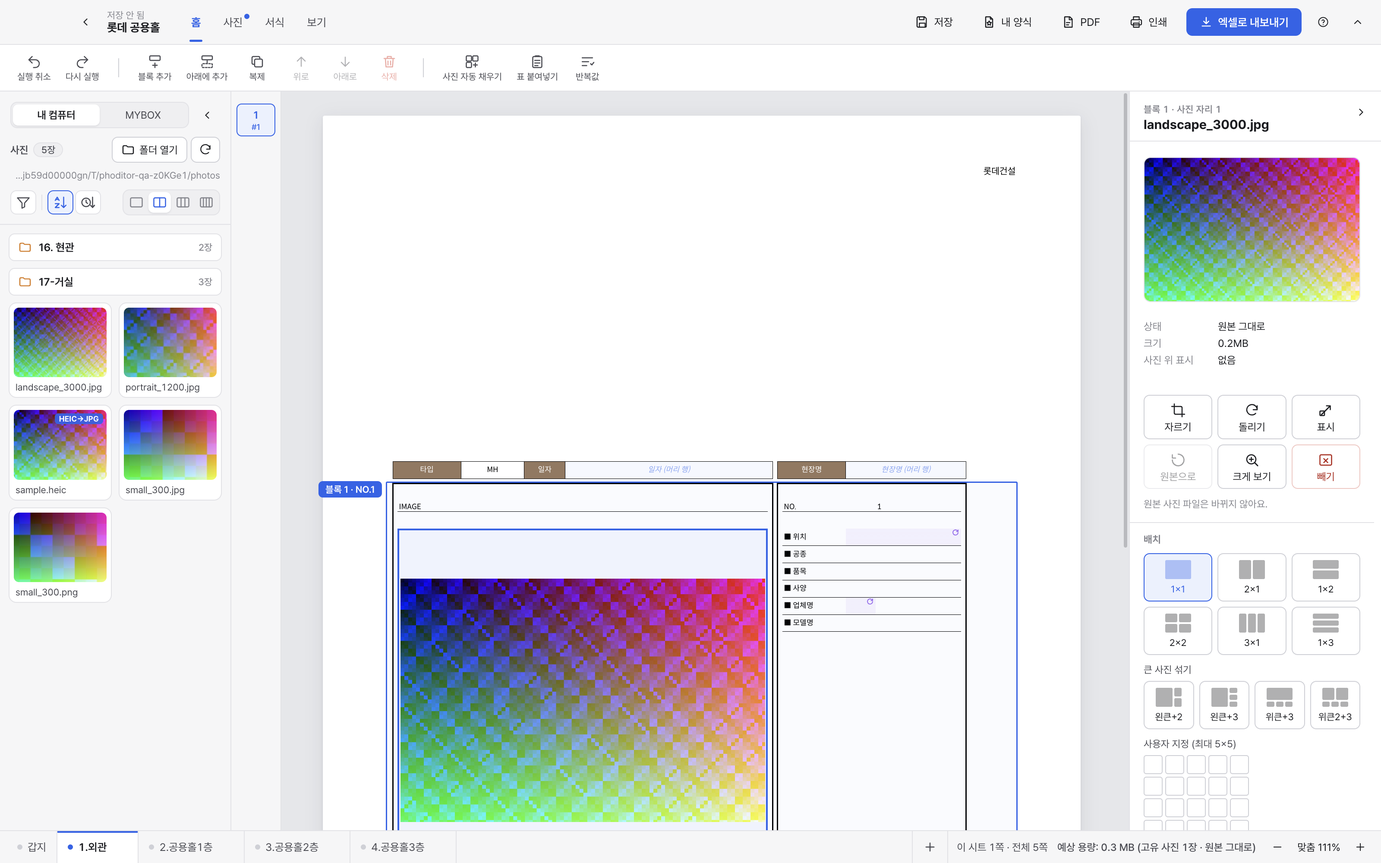
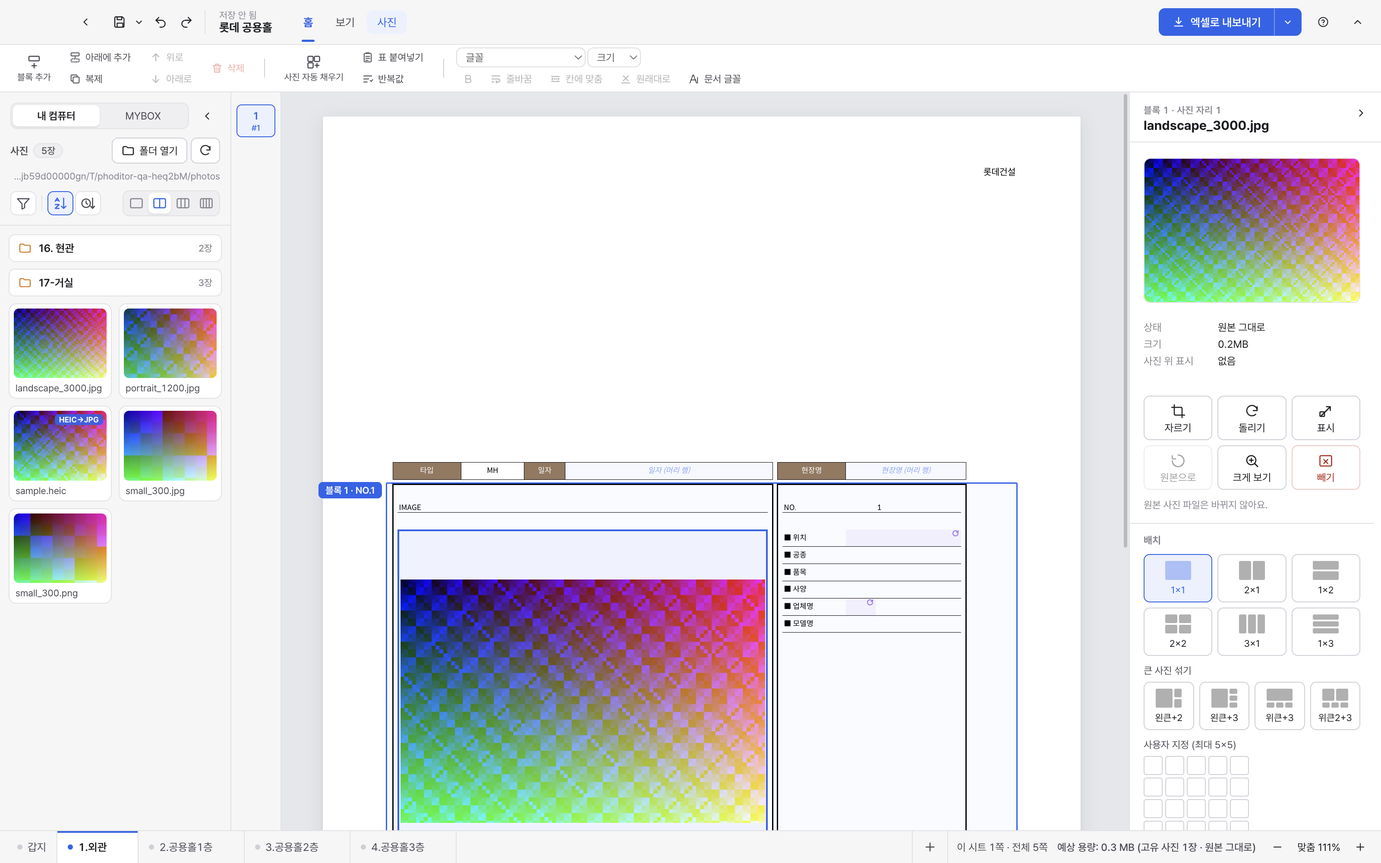
9.3 R5 Office식 리본·상단 바, 시작 화면 빈자리 정리
- 상단 바 왼쪽 빠른 실행: [저장 ▾](다른 이름으로·내 양식) · 실행 취소 · 다시 실행
- 오른쪽 [엑셀로 내보내기 | ▾] 분할 단추(PDF ⇧⌘E · 인쇄 ⌘P), R4 PDF 배지 제거
- 탭: 홈 · 보기 + 상황 탭 [사진](사진 자리를 골랐을 때만), [서식] 탭은 없애고 글꼴 묶음을 [홈]으로
- [홈] 리본 위계: 큰 단추(블록 추가·사진 자동 채우기) + 작은 단추 2단 쌓기, 높이 54px 유지
- 칸을 안 골랐을 때 글꼴·크기 상자에 "글꼴"/"크기" 표시
- 시작 화면: 최근 작업이 적어 아래가 남으면 양식 카드를 여러 줄로 모두 보여 줌(안 들어가면 한 줄 그대로)
- 테스트: 06·09·10·11·12 위치 확인 갱신·추가(지운 항목 없음), 재평가 캡처 4장 갱신

diff --git a/index.html b/index.html
@@ -345,10 +345,10 @@
     @media (max-width: 1420px) {
       .tb-btn { font-size: 0; min-width: 36px; padding: 7px 8px; gap: 0; }
       .tb-btn svg.i { width: 18px; height: 18px; }
-      #saveBtn, #saveMyTplTopBtn, #pdfBtn, #printBtn { font-size: 0; gap: 0; }
-      #pdfBtn .pdf-badge { display: block; } /* 글자가 숨는 좁은 창에서만: 내 양식과 구분 */
       .tb-sep { margin: 0 2px; }
       .rb-panel .tb-sep { margin: 0 6px; }
+      .rb-panel .tb-btn.sm { font-size: 0; gap: 0; padding: 0 6px; }
+      .rb-font2 #fmtFontSel { width: 120px; }
     }
     .icon-btn { padding: 6px 7px; }
     .photo-tools { display: flex; gap: 6px; align-items: center; }
@@ -429,6 +429,34 @@
     .rb-font select { height: 30px; font-size: 12.5px; }
     #fmtFontSel { width: 170px; } #fmtSizeSel { width: 72px; margin-right: 4px; }
     .rb-panel .tb-sep { margin: 0 10px; }
+    /* [9.3 R5] Office식 리본·상단 바 */
+    .qat { display: flex; align-items: center; gap: 0; margin-right: 6px; padding-right: 6px; border-right: 1px solid var(--line); }
+    .qat-btn { padding: 5px 6px; }
+    .qat-btn svg.i { width: 16px; height: 16px; }
+    .qat-caret { padding: 5px 2px; margin-left: -3px; }
+    .qat-caret svg.i, .split-caret svg.i { width: 14px; height: 14px; }
+    .split-btn { display: inline-flex; align-items: stretch; flex: none; }
+    .split-btn #exportBtn { border-top-right-radius: 0; border-bottom-right-radius: 0; }
+    .split-btn .split-caret { border-top-left-radius: 0; border-bottom-left-radius: 0; border-left: 1px solid rgba(255,255,255,.35); padding: 0 8px; min-width: 0; }
+    .drop-menu { position: fixed; z-index: 3000; min-width: 220px; background: #fff; border: 1px solid var(--line); border-radius: 10px; box-shadow: var(--shadow-pop); padding: 5px; display: flex; flex-direction: column; -webkit-app-region: no-drag; }
+    .drop-menu[hidden] { display: none; }
+    .drop-item { display: flex; align-items: center; gap: 10px; border: none; background: transparent; padding: 7px 10px; border-radius: 7px; font-size: 13px; color: var(--ink); text-align: left; justify-content: flex-start; }
+    .drop-item:hover, .drop-item:focus-visible { background: var(--bg-hover, rgba(0,0,0,.05)); }
+    .drop-item svg.i { width: 16px; height: 16px; color: var(--ink-2); flex: none; }
+    .drop-item span { flex: 1; }
+    .drop-item kbd { font-size: 11px; color: var(--ink-muted); background: none; border: none; font-family: inherit; }
+    .rb-stack { display: flex; flex-direction: column; justify-content: center; gap: 2px; flex: none; }
+    .rb-panel .tb-btn.sm { flex-direction: row; justify-content: flex-start; gap: 5px; min-width: 0; height: 23px; padding: 0 8px; font-size: 11.5px; }
+    .rb-panel .tb-btn.sm svg.i { width: 14px; height: 14px; }
+    .rb-panel .tb-btn.sm.ico { padding: 0 6px; }
+    .rb-font2 { display: flex; flex-direction: column; justify-content: center; gap: 2px; flex: none; }
+    .rb-font2 .rb-row { display: flex; align-items: center; gap: 2px; }
+    .rb-font2 select { height: 23px; padding: 0 6px; font-size: 12px; }
+    .rb-font2 #fmtFontSel { width: 150px; }
+    .rb-font2 #fmtSizeSel { width: 62px; }
+    .ribbon-tabs button.ctx-tab { color: var(--accent); background: var(--accent-soft); }
+    .ribbon-tabs button.ctx-tab::before { display: none !important; }
+    .ribbon-tabs button[hidden] { display: none; }
     .rb-hint { font-size: 11.5px; color: var(--ink-muted); margin-left: 10px; white-space: nowrap; }
     .rb-collapse, .help-btn { flex: none; }
     .rb-collapse svg { transition: transform .15s; }
@@ -516,7 +544,8 @@
     .tpl-head .type-btn { padding: 6px 14px; font-size: 13px; }
     .tpl-strip-wrap { position: relative; margin-bottom: 26px; }
     .tpl-strip { display: flex; gap: 14px; overflow-x: auto; scroll-snap-type: x proximity; padding: 4px 2px 10px; }
-    .tpl-strip > .company-card { flex: 0 0 212px; scroll-snap-align: start; }
+    .tpl-strip.as-grid { flex-wrap: wrap; overflow-x: visible; scroll-snap-type: none; }
+    .tpl-strip > .company-card { flex: 0 0 var(--strip-card-w, 212px); scroll-snap-align: start; }
     .strip-scroll { position: absolute; top: 96px; z-index: 3; width: 34px; height: 54px; padding: 0; justify-content: center; font-size: 24px; border-radius: 10px; background: rgba(255,255,255,.95); box-shadow: var(--shadow-pop); }
     .strip-scroll.prev { left: -14px; } .strip-scroll.next { right: -14px; }
     .strip-scroll[hidden] { display: none; }
@@ -574,7 +603,7 @@
     .company-grid { display: grid; gap: 14px; grid-template-columns: repeat(auto-fill, minmax(220px, 1fr)); }
     .company-card { display: flex; flex-direction: column; align-items: stretch; justify-content: flex-start; gap: 0; padding: 0; text-align: left; overflow: hidden; border: 1px solid var(--line); border-radius: var(--radius-lg); background: #fff; box-shadow: 0 1px 2px rgba(16,24,40,.04); transition: border-color .15s, box-shadow .15s, transform .15s; min-height: 0; cursor: pointer; outline: none; }
     .company-card:focus-visible { border-color: var(--accent); box-shadow: 0 0 0 3px var(--accent-ring); }
-    .company-card .card-art { display: grid; place-items: center; background: var(--chrome-2); border-bottom: 1px solid var(--line); position: relative; --art-h: 236px; height: var(--art-h); padding: 10px 0 24px; box-sizing: border-box; overflow: hidden; }
+    .company-card .card-art { display: grid; place-items: center; background: var(--chrome-2); border-bottom: 1px solid var(--line); position: relative; --art-h: var(--strip-art-h, 236px); height: var(--art-h); padding: 10px 0 24px; box-sizing: border-box; overflow: hidden; }
     .company-card .card-art img.cover-thumb { height: auto; width: auto; max-height: calc(var(--art-h) - 34px); max-width: calc(100% - 56px); object-fit: contain; border-radius: 2px; box-shadow: 0 1px 4px rgba(16,24,40,.22); background: #fff; }
     .company-card .card-body { display: flex; align-items: center; gap: 10px; padding: 8px 12px 10px; }
     .company-card .card-text { display: flex; flex-direction: column; gap: 1px; min-width: 0; flex: 1; }
@@ -846,6 +875,10 @@
       <button id="backToCatalogBtn" class="ghost icon-btn" data-tip="양식 목록으로">
         <svg class="i" viewBox="0 0 24 24"><path d="M15 18l-6-6 6-6"/></svg>
       </button>
+      <div class="qat" role="toolbar" aria-label="빠른 실행">
+        <button id="saveBtn" class="ghost icon-btn qat-btn" data-tip="작업 저장 (⌘S)" aria-label="저장"><svg class="i" viewBox="0 0 24 24"><path d="M5 3h11l3 3v13a2 2 0 01-2 2H5a2 2 0 01-2-2V5a2 2 0 012-2z"/><path d="M7 3v5h8V3M7 21v-7h10v7"/></svg></button><button id="saveMenuBtn" class="ghost icon-btn qat-caret" data-tip="저장 메뉴" aria-label="저장 메뉴" aria-haspopup="menu" aria-expanded="false"><svg class="i" viewBox="0 0 24 24" aria-hidden="true"><path d="M7 10l5 5 5-5"/></svg></button>
+        <button id="undoBtn" class="ghost icon-btn qat-btn" data-tip="실행 취소 (⌘Z)" aria-label="실행 취소"><svg class="i" viewBox="0 0 24 24"><path d="M9 14L4 9l5-5"/><path d="M4 9h10a6 6 0 010 12h-3"/></svg></button><button id="redoBtn" class="ghost icon-btn qat-btn" data-tip="다시 실행 (⇧⌘Z)" aria-label="다시 실행"><svg class="i" viewBox="0 0 24 24"><path d="M15 14l5-5-5-5"/><path d="M20 9H10a6 6 0 000 12h3"/></svg></button>
+      </div>
       <div class="doc-head">
         <div class="doc-titles">
           <span class="doc-kicker" id="editorKicker">사진첩</span>
@@ -854,39 +887,46 @@
       </div>
       <nav id="ribbonTabs" class="ribbon-tabs" role="tablist">
         <button data-tab="home" class="on" role="tab">홈</button>
-        <button data-tab="photo" role="tab">사진</button>
-        <button data-tab="format" role="tab">서식</button>
         <button data-tab="view" role="tab">보기</button>
+        <button data-tab="photo" role="tab" class="ctx-tab" hidden>사진</button>
       </nav>
       <div class="tb-spacer"></div>
       <input id="siteNameInput" type="text" placeholder="현장명" style="display:none; width: 200px;" />
-      <button id="saveBtn" class="ghost file-btn" data-tip="작업 저장 (⌘S)"><svg class="i" viewBox="0 0 24 24"><path d="M5 3h11l3 3v13a2 2 0 01-2 2H5a2 2 0 01-2-2V5a2 2 0 012-2z"/><path d="M7 3v5h8V3M7 21v-7h10v7"/></svg><span>저장</span></button>
-      <button id="saveMyTplTopBtn" class="ghost file-btn" data-tip="지금 구성을 내 양식으로 저장(사진 빼고)"><svg class="i" viewBox="0 0 24 24"><path d="M14 3H6v18h12V7z"/><path d="M14 3v4h4"/><path d="M12 10.2l1.2 2.4 2.6.4-1.9 1.8.5 2.6-2.4-1.2-2.4 1.2.5-2.6-1.9-1.8 2.6-.4z"/></svg><span>내 양식</span></button>
-      <button id="pdfBtn" class="ghost file-btn" data-tip="PDF로 내보내기 (⇧⌘E)"><span class="pdf-ico"><svg class="i" viewBox="0 0 24 24"><path d="M6 3h9l4 4v14H6z"/><path d="M14 3v5h5M9 13h6M9 17h4"/></svg><b class="pdf-badge" aria-hidden="true">PDF</b></span><span>PDF</span></button>
-      <button id="printBtn" class="ghost file-btn" data-tip="인쇄 (⌘P) — Excel로 PDF를 만들어 바로 열어요"><svg class="i" viewBox="0 0 24 24"><path d="M7 8V3h10v5"/><rect x="3" y="8" width="18" height="9" rx="2"/><path d="M7 14h10v7H7z"/><path d="M17 11.5h.01"/></svg><span>인쇄</span></button>
-      <button id="exportBtn" class="primary"><svg class="i" viewBox="0 0 24 24"><path d="M12 4v11M7.5 10.5L12 15l4.5-4.5"/><path d="M5 19h14"/></svg>엑셀로 내보내기</button>
+      
+      
+      
+      
+      <div class="split-btn" id="exportSplit"><button id="exportBtn" class="primary"><svg class="i" viewBox="0 0 24 24"><path d="M12 4v11M7.5 10.5L12 15l4.5-4.5"/><path d="M5 19h14"/></svg>엑셀로 내보내기</button><button id="exportMenuBtn" class="primary split-caret" data-tip="PDF·인쇄" aria-label="다른 형식으로 내보내기" aria-haspopup="menu" aria-expanded="false"><svg class="i" viewBox="0 0 24 24" aria-hidden="true"><path d="M7 10l5 5 5-5"/></svg></button></div>
       <button id="helpBtn" class="ghost icon-btn help-btn" data-tip="도움말" aria-label="도움말"><svg class="i" viewBox="0 0 24 24" aria-hidden="true"><circle cx="12" cy="12" r="9"/><path d="M9.6 9.3a2.5 2.5 0 014.8.9c0 1.7-2.4 2.2-2.4 3.6"/><path d="M12 17.2h.01"/></svg></button>
       <button id="ribbonCollapseBtn" class="ghost icon-btn rb-collapse" data-tip="리본 접기" aria-expanded="true" aria-controls="ribbon"><svg class="i" viewBox="0 0 24 24"><path d="M6 15l6-6 6 6"/></svg></button>
       <span id="templateStatusBadge" hidden></span>
       <span id="blankStatusBadge" hidden></span>
     </header>
+    <div id="saveMenu" class="drop-menu" role="menu" hidden>
+      <button id="saveAsBtn" class="drop-item" role="menuitem"><svg class="i" viewBox="0 0 24 24"><path d="M5 3h11l3 3v13a2 2 0 01-2 2H5a2 2 0 01-2-2V5a2 2 0 012-2z"/><path d="M7 3v5h8V3"/><path d="M12 12v6M9 15h6"/></svg><span>다른 이름으로 저장…</span><kbd>⇧⌘S</kbd></button>
+      <button id="saveMyTplTopBtn" class="drop-item" role="menuitem" data-tip="지금 구성을 내 양식으로 저장(사진 빼고)"><svg class="i" viewBox="0 0 24 24"><path d="M14 3H6v18h12V7z"/><path d="M14 3v4h4"/><path d="M12 10.2l1.2 2.4 2.6.4-1.9 1.8.5 2.6-2.4-1.2-2.4 1.2.5-2.6-1.9-1.8 2.6-.4z"/></svg><span>내 양식으로 저장…</span></button>
+    </div>
+    <div id="exportMenu" class="drop-menu" role="menu" hidden>
+      <button id="pdfBtn" class="drop-item" role="menuitem" data-tip="PDF로 내보내기 (⇧⌘E)"><svg class="i" viewBox="0 0 24 24"><path d="M6 3h9l4 4v14H6z"/><path d="M14 3v5h5M9 13h6M9 17h4"/></svg><span>PDF로 내보내기…</span><kbd>⇧⌘E</kbd></button>
+      <button id="printBtn" class="drop-item" role="menuitem" data-tip="인쇄 (⌘P) — Excel로 PDF를 만들어 바로 열어요"><svg class="i" viewBox="0 0 24 24"><path d="M7 8V3h10v5"/><rect x="3" y="8" width="18" height="9" rx="2"/><path d="M7 14h10v7H7z"/><path d="M17 11.5h.01"/></svg><span>인쇄…</span><kbd>⌘P</kbd></button>
+    </div>
     <div id="ribbon" class="ribbon">
       <div class="rb-panel on" data-tab="home">
-        <div class="rb-group"><button id="undoBtn" class="tb-btn" data-tip="실행 취소 (⌘Z)"><svg class="i" viewBox="0 0 24 24"><path d="M9 14L4 9l5-5"/><path d="M4 9h10a6 6 0 010 12h-3"/></svg><span>실행 취소</span></button><button id="redoBtn" class="tb-btn" data-tip="다시 실행 (⇧⌘Z)"><svg class="i" viewBox="0 0 24 24"><path d="M15 14l5-5-5-5"/><path d="M20 9H10a6 6 0 000 12h3"/></svg><span>다시 실행</span></button></div>
+        <div class="rb-group"><button id="addBlockEndBtn" class="tb-btn" data-tip="시트 맨 끝에 블록 추가"><svg class="i" viewBox="0 0 24 24"><rect x="4" y="3" width="16" height="7" rx="1.5"/><path d="M12 14v7M8.5 17.5h7"/></svg><span>블록 추가</span></button></div>
+        <div class="rb-stack"><button id="addBlockBelowBtn" class="tb-btn sm" data-tip="선택한 블록 아래에 추가 (⌘↵)"><svg class="i" viewBox="0 0 24 24"><rect x="4" y="3" width="16" height="6" rx="1.5"/><rect x="4" y="15" width="16" height="6" rx="1.5" stroke-dasharray="2.5 2"/><path d="M12 10.5v3"/></svg><span>아래에 추가</span></button><button id="dupBlockBtn" class="tb-btn sm" data-tip="선택한 블록 복제 (⌘D)"><svg class="i" viewBox="0 0 24 24"><rect x="8" y="8" width="12" height="12" rx="2"/><path d="M16 8V6a2 2 0 00-2-2H6a2 2 0 00-2 2v8a2 2 0 002 2h2"/></svg><span>복제</span></button></div>
+        <div class="rb-stack"><button id="moveUpBtn" class="tb-btn sm" data-tip="블록 위로 (⌥↑)"><svg class="i" viewBox="0 0 24 24"><path d="M12 19V5M6 11l6-6 6 6"/></svg><span>위로</span></button><button id="moveDownBtn" class="tb-btn sm" data-tip="블록 아래로 (⌥↓)"><svg class="i" viewBox="0 0 24 24"><path d="M12 5v14M6 13l6 6 6-6"/></svg><span>아래로</span></button></div>
+        <div class="rb-stack"><button id="deleteBlockBtn" class="tb-btn sm danger" data-tip="선택한 블록 삭제 (⌘⌫)"><svg class="i" viewBox="0 0 24 24"><path d="M4 7h16M10 11v6M14 11v6M6 7l1 13h10l1-13M9 7V4h6v3"/></svg><span>삭제</span></button></div>
         <div class="tb-sep"></div>
-        <div class="rb-group"><button id="addBlockEndBtn" class="tb-btn" data-tip="시트 맨 끝에 블록 추가"><svg class="i" viewBox="0 0 24 24"><rect x="4" y="3" width="16" height="7" rx="1.5"/><path d="M12 14v7M8.5 17.5h7"/></svg><span>블록 추가</span></button><button id="addBlockBelowBtn" class="tb-btn" data-tip="선택한 블록 아래에 추가 (⌘↵)"><svg class="i" viewBox="0 0 24 24"><rect x="4" y="3" width="16" height="6" rx="1.5"/><rect x="4" y="15" width="16" height="6" rx="1.5" stroke-dasharray="2.5 2"/><path d="M12 10.5v3"/></svg><span>아래에 추가</span></button><button id="dupBlockBtn" class="tb-btn" data-tip="선택한 블록 복제 (⌘D)"><svg class="i" viewBox="0 0 24 24"><rect x="8" y="8" width="12" height="12" rx="2"/><path d="M16 8V6a2 2 0 00-2-2H6a2 2 0 00-2 2v8a2 2 0 002 2h2"/></svg><span>복제</span></button><button id="moveUpBtn" class="tb-btn" data-tip="블록 위로 (⌥↑)"><svg class="i" viewBox="0 0 24 24"><path d="M12 19V5M6 11l6-6 6 6"/></svg><span>위로</span></button><button id="moveDownBtn" class="tb-btn" data-tip="블록 아래로 (⌥↓)"><svg class="i" viewBox="0 0 24 24"><path d="M12 5v14M6 13l6 6 6-6"/></svg><span>아래로</span></button><button id="deleteBlockBtn" class="tb-btn danger" data-tip="선택한 블록 삭제 (⌘⌫)"><svg class="i" viewBox="0 0 24 24"><path d="M4 7h16M10 11v6M14 11v6M6 7l1 13h10l1-13M9 7V4h6v3"/></svg><span>삭제</span></button></div>
+        <div class="rb-group"><button id="autoFillBtn" class="tb-btn" data-tip="폴더 사진을 빈 자리에 차례로 · 폴더별로"><svg class="i" viewBox="0 0 24 24"><rect x="3" y="3" width="8" height="8" rx="1.5"/><rect x="13" y="3" width="8" height="8" rx="1.5"/><rect x="3" y="13" width="8" height="8" rx="1.5"/><path d="M17 14v6M14 17h6"/></svg><span>사진 자동 채우기</span></button></div>
+        <div class="rb-stack"><button id="pasteTableBtn" class="tb-btn sm" data-tip="엑셀 목록으로 위치·품목 채우기"><svg class="i" viewBox="0 0 24 24"><rect x="5" y="4" width="14" height="17" rx="2"/><path d="M9 4V3h6v1M8 10h8M8 14h8M8 18h5"/></svg><span>표 붙여넣기</span></button><button id="editRepeatedBtn" class="tb-btn sm" data-tip="머리 행·반복값 한꺼번에 입력"><svg class="i" viewBox="0 0 24 24"><path d="M4 6h16M4 12h10M4 18h7"/><path d="M17 15l2 2 3-4"/></svg><span>반복값</span></button></div>
         <div class="tb-sep"></div>
-        <div class="rb-group"><button id="autoFillBtn" class="tb-btn" data-tip="폴더 사진을 빈 자리에 차례로 · 폴더별로"><svg class="i" viewBox="0 0 24 24"><rect x="3" y="3" width="8" height="8" rx="1.5"/><rect x="13" y="3" width="8" height="8" rx="1.5"/><rect x="3" y="13" width="8" height="8" rx="1.5"/><path d="M17 14v6M14 17h6"/></svg><span>사진 자동 채우기</span></button><button id="pasteTableBtn" class="tb-btn" data-tip="엑셀 목록으로 위치·품목 채우기"><svg class="i" viewBox="0 0 24 24"><rect x="5" y="4" width="14" height="17" rx="2"/><path d="M9 4V3h6v1M8 10h8M8 14h8M8 18h5"/></svg><span>표 붙여넣기</span></button><button id="editRepeatedBtn" class="tb-btn" data-tip="머리 행·반복값 한꺼번에 입력"><svg class="i" viewBox="0 0 24 24"><path d="M4 6h16M4 12h10M4 18h7"/><path d="M17 15l2 2 3-4"/></svg><span>반복값</span></button></div>
+        <div class="rb-font2" role="group" aria-label="글꼴">
+          <div class="rb-row"><select id="fmtFontSel" data-tip="칸 글꼴"></select><select id="fmtSizeSel" data-tip="글자 크기"></select></div>
+          <div class="rb-row"><button aria-label="굵게" id="fmtBoldBtn" class="tb-btn sm ico" data-tip="굵게"><svg class="i" viewBox="0 0 24 24"><path d="M7 5h6a3.5 3.5 0 010 7H7zM7 12h7a3.5 3.5 0 010 7H7z"/></svg></button><button id="fmtWrapBtn" class="tb-btn sm" data-tip="긴 글은 칸 안에서 줄바꿈"><svg class="i" viewBox="0 0 24 24"><path d="M4 6h16M4 12h13a3 3 0 010 6h-5M14 16l-2 2 2 2M4 18h4"/></svg><span>줄바꿈</span></button><button id="fmtShrinkBtn" class="tb-btn sm" data-tip="칸에 맞게 글자 줄이기(엑셀 셀에 맞춤)"><svg class="i" viewBox="0 0 24 24"><path d="M4 7h16M4 17h16M9 12h6M7 10l-2 2 2 2M17 10l2 2-2 2"/></svg><span>칸에 맞춤</span></button><button id="fmtResetBtn" class="tb-btn sm" data-tip="이 칸 글꼴 설정 지우기"><svg class="i" viewBox="0 0 24 24"><path d="M4 20h16M7 16l10-10M7 6l10 10"/></svg><span>원래대로</span></button><button id="fontPanelBtn" class="tb-btn sm" data-tip="문서 전체 글꼴 바꾸기"><svg class="i" viewBox="0 0 24 24"><path d="M4 20l6-16h1l6 16M6.5 14h9"/><path d="M19 9v11"/></svg><span>문서 글꼴</span></button></div>
+        </div>
       </div>
       <div class="rb-panel" data-tab="photo">
         <div class="rb-group"><button id="rbCropBtn" class="tb-btn" data-tip="자리에 맞춰 자르기"><svg class="i" viewBox="0 0 24 24"><path d="M6 2v14a2 2 0 002 2h14"/><path d="M18 22V8a2 2 0 00-2-2H2"/></svg><span>자르기</span></button><button id="rbRotateBtn" class="tb-btn" data-tip="오른쪽으로 90°"><svg class="i" viewBox="0 0 24 24"><path d="M20 11a8 8 0 10-2.3 5.7M20 5v6h-6"/></svg><span>돌리기</span></button><button id="rbRevertBtn" class="tb-btn" data-tip="자르기·돌리기 되돌리기"><svg class="i" viewBox="0 0 24 24"><path d="M3 12a9 9 0 109-9"/><path d="M3 4v5h5"/></svg><span>원본으로</span></button><button id="rbAnnoBtn" class="tb-btn" data-tip="화살표·네모·글상자"><svg class="i" viewBox="0 0 24 24"><path d="M5 19L19 5M19 5h-6M19 5v6"/><rect x="3" y="13" width="7" height="7" rx="1"/></svg><span>사진 위 표시</span></button><button id="rbZoomBtn" class="tb-btn" data-tip="크게 보기"><svg class="i" viewBox="0 0 24 24"><circle cx="11" cy="11" r="7"/><path d="M21 21l-5-5M8 11h6M11 8v6"/></svg><span>크게 보기</span></button><button id="rbRemoveBtn" class="tb-btn danger" data-tip="이 자리 사진 빼기 (⌫)"><svg class="i" viewBox="0 0 24 24"><rect x="3" y="4" width="18" height="16" rx="2"/><path d="M9 10l6 6M15 10l-6 6"/></svg><span>빼기</span></button></div>
-      </div>
-      <div class="rb-panel" data-tab="format">
-        <div class="rb-group rb-font"><select id="fmtFontSel" data-tip="칸 글꼴"></select><select id="fmtSizeSel" data-tip="글자 크기"></select><button id="fmtBoldBtn" class="tb-btn" data-tip="굵게"><svg class="i" viewBox="0 0 24 24"><path d="M7 5h6a3.5 3.5 0 010 7H7zM7 12h7a3.5 3.5 0 010 7H7z"/></svg><span>굵게</span></button></div>
-        <div class="tb-sep"></div>
-        <div class="rb-group"><button id="fmtWrapBtn" class="tb-btn" data-tip="긴 글은 칸 안에서 줄바꿈"><svg class="i" viewBox="0 0 24 24"><path d="M4 6h16M4 12h13a3 3 0 010 6h-5M14 16l-2 2 2 2M4 18h4"/></svg><span>줄바꿈</span></button><button id="fmtShrinkBtn" class="tb-btn" data-tip="칸에 맞게 글자 줄이기(엑셀 셀에 맞춤)"><svg class="i" viewBox="0 0 24 24"><path d="M4 7h16M4 17h16M9 12h6M7 10l-2 2 2 2M17 10l2 2-2 2"/></svg><span>칸에 맞춤</span></button><button id="fmtResetBtn" class="tb-btn" data-tip="이 칸 글꼴 설정 지우기"><svg class="i" viewBox="0 0 24 24"><path d="M4 20h16M7 16l10-10M7 6l10 10"/></svg><span>원래대로</span></button></div>
-        <div class="tb-sep"></div>
-        <div class="rb-group"><button id="fontPanelBtn" class="tb-btn" data-tip="문서 전체 글꼴 바꾸기"><svg class="i" viewBox="0 0 24 24"><path d="M4 20l6-16h1l6 16M6.5 14h9"/><path d="M19 9v11"/></svg><span>문서 글꼴</span></button></div>
       </div>
       <div class="rb-panel" data-tab="view">
         <div class="rb-group"><button id="gridToggleBtn" class="tb-btn" data-tip="화면에만 칸 격자 보이기"><svg class="i" viewBox="0 0 24 24"><rect x="4" y="4" width="16" height="16" rx="1.5"/><path d="M4 10h16M4 15h16M10 4v16M15 4v16"/></svg><span>격자</span></button></div>

diff --git a/qa/scenarios/06_design.js b/qa/scenarios/06_design.js
@@ -15,23 +15,23 @@ try {
   const r5 = $$('.pv-page')[4].getBoundingClientRect();
   const vp = $('#gridViewport').getBoundingClientRect();
   check('누르면 그 쪽으로 이동하고 표시됨', Math.abs(r5.top - vp.top) < 120 && rail()[4].classList.contains('on'), `${Math.round(r5.top - vp.top)} ${rail().findIndex((b) => b.classList.contains('on'))}`);
-  // [리본] 홈 · 사진 · 서식 · 보기 — 같은 일 하는 단추는 리본에 한 번만
-  check('리본 탭 4개(홈·사진·서식·보기)', $$('#ribbonTabs button').map((b) => b.textContent).join() === '홈,사진,서식,보기');
+  // [리본 · 9.3 R5] 홈 · 보기 + 상황 탭 [사진](사진 자리를 골랐을 때만) — 같은 일 하는 단추는 리본에 한 번만
+  check('리본 탭: 늘 보이는 건 홈·보기, [사진]은 상황 탭(지금은 숨김), [서식] 탭 없음', $$('#ribbonTabs button').filter((b) => !b.hidden).map((b) => b.textContent).join() === '홈,보기' && $('#ribbonTabs [data-tab="photo"]').hidden && !$('#ribbonTabs [data-tab="format"]'), $$('#ribbonTabs button').map((b) => b.textContent + (b.hidden ? '(숨김)' : '')).join());
+  check('홈: 큰 단추(블록 추가·사진 자동 채우기)와 작은 단추 쌓기, 글꼴 묶음이 홈에', !$('#addBlockEndBtn').classList.contains('sm') && !$('#autoFillBtn').classList.contains('sm') && $('#moveUpBtn').classList.contains('sm') && !!$('.rb-panel.on .rb-font2 #fmtFontSel') && !!$('.rb-panel.on #fmtBoldBtn'));
+  check('리본 높이 그대로(55px 이하)', $('#ribbon').getBoundingClientRect().height <= 55, $('#ribbon').getBoundingClientRect().height);
   check('홈: 채우기 단추가 바로 보임(메뉴 없이)', !!$('.rb-panel.on #autoFillBtn') && !!$('.rb-panel.on #pasteTableBtn') && !$('#fillMenu'));
   await clickEl($('#pasteTableBtn'), 400);
   check('표 붙여넣기 창', !!$('.dyn-modal textarea'));
   $('.dyn-modal').remove();
-  await clickEl($('#ribbonTabs [data-tab="photo"]'), 300);
-  check('사진 탭: 자리를 안 고르면 꺼져 있음(안내문 없이)', $('#rbCropBtn').disabled && !$('#rbPhotoHint') && !$('.rb-panel.on .rb-hint'));
+  check('사진 탭: 자리를 안 고르면 탭이 안 보임(꺼진 단추를 보여 주지 않음)', $('#ribbonTabs [data-tab="photo"]').hidden && $('#rbCropBtn').disabled && !$('#rbPhotoHint'));
   await shot('d02_ribbon_photo');
-  await clickEl($('#ribbonTabs [data-tab="format"]'), 300);
-  check('서식 탭: 칸을 안 고르면 꺼짐(안내문 없이)', $('#fmtBoldBtn').disabled && !$('#rbFormatHint') && !$('.rb-panel.on .rb-hint'));
+  check('글꼴(홈): 칸을 안 고르면 꺼짐(안내문 없이)', $('#fmtBoldBtn').disabled && !$('#rbFormatHint') && !$('.rb-panel.on .rb-hint'));
   const cell = $$('.pv-page td.editable-cell').find((t) => t.textContent.trim() === '' && t.offsetWidth > 60);
   cell.click(); await sleep(300);
   const ed = cell.querySelector('.cell-editor-input');
   if (ed) ed.dispatchEvent(new KeyboardEvent('keydown', { key: 'Escape', bubbles: true }));
   await sleep(300);
-  check('칸을 고르면 서식 탭 켜짐(탭에 점 표시)', !$('#fmtBoldBtn').disabled && $('#ribbonTabs [data-tab="format"]').classList.contains('ctx-on'));
+  check('칸을 고르면 홈의 글꼴 단추가 켜짐', !$('#fmtBoldBtn').disabled && $('#fmtBoldBtn').closest('.rb-panel').dataset.tab === 'home');
   const before = JSON.stringify(state.editor.sheets[state.activeSheetIdx].cellFonts || {});
   await clickEl($('#fmtBoldBtn'), 500);
   check('서식 > 굵게 적용', JSON.stringify(state.editor.sheets[state.activeSheetIdx].cellFonts || {}) !== before && $('#fmtBoldBtn').classList.contains('on'));

diff --git a/qa/scenarios/09_audit.js b/qa/scenarios/09_audit.js
@@ -37,7 +37,9 @@ try {
   // 3. 좁은 창: 파일 단추 셋 다 같은 규칙
   const narrow = innerWidth <= 1420;
   const fs = (id) => parseFloat(getComputedStyle($(id)).fontSize);
-  check(`3. 파일 단추 글자 숨김이 같은지(창 ${innerWidth}px)`, narrow ? fs('#saveBtn') === 0 && fs('#saveMyTplTopBtn') === 0 && fs('#pdfBtn') === 0 : fs('#saveMyTplTopBtn') > 0 && fs('#saveBtn') > 0, `${fs('#saveBtn')} ${fs('#saveMyTplTopBtn')} ${fs('#pdfBtn')}`);
+  // [9.3 R5] 파일 단추: 저장은 왼쪽 빠른 실행(아이콘), 내 양식·PDF·인쇄는 펼침 메뉴 안(글자 그대로)
+  void narrow; void fs;
+  check(`3. 파일 단추: 저장·실행 취소·다시 실행은 빠른 실행, 내 양식은 [저장 ▾], PDF·인쇄는 [엑셀로 내보내기 ▾] 안(창 ${innerWidth}px)`, !!$('.qat #saveBtn') && !!$('.qat #undoBtn') && !!$('.qat #redoBtn') && !!$('#saveMenu #saveMyTplTopBtn') && !!$('#exportMenu #pdfBtn') && !!$('#exportMenu #printBtn') && !!$('#exportSplit #exportMenuBtn'));
   check('3. 도구 막대가 창 안에 들어감', $('#exportBtn').getBoundingClientRect().right <= innerWidth && $('#ribbonCollapseBtn').getBoundingClientRect().right <= innerWidth, `${Math.round($('#ribbonCollapseBtn').getBoundingClientRect().right)} / ${innerWidth}`);
   await shot('a02_editor');
 
@@ -226,9 +228,14 @@ try {
   el.sheetTabsBar.scrollLeft = 0; el.sheetTabsBar.dispatchEvent(new Event('scroll')); await sleep(150);
   check('R4. 탭이 넘치면 오른쪽 끝 페이드', el.sheetTabsBar.classList.contains('fade-r') && /gradient/.test(getComputedStyle(el.sheetTabsBar).webkitMaskImage || getComputedStyle(el.sheetTabsBar).maskImage || ''), el.sheetTabsBar.className);
   // [9.3 R4] 1280px 상단 바: PDF 단추에 PDF 배지(내 양식과 구분), 도움말 ? 단추 상시
-  const badge = $('#pdfBtn .pdf-badge');
-  check('R4. 1280px: PDF 단추에 "PDF" 배지(브랜드 블루), 내 양식 단추엔 없음', !!badge && getComputedStyle(badge).display !== 'none' && badge.textContent === 'PDF' && getComputedStyle(badge).backgroundColor === 'rgb(37, 99, 235)' && !$('#saveMyTplTopBtn .pdf-badge'), badge && getComputedStyle(badge).backgroundColor);
+  // [R4 → 9.3 R5] 1280px 상단 바: 아이콘만 나란히 서는 단추가 없음(PDF·내 양식은 글자 있는 메뉴 항목) → 서로 헷갈릴 일 없음
+  const iconOnly = $$('.app-toolbar > button, .app-toolbar .qat > button').filter((b) => b.offsetParent && !b.textContent.trim()).map((b) => b.id);
+  check('R4. 1280px: PDF·내 양식은 글자 있는 메뉴 항목(아이콘끼리 구분할 필요 없음)', $('#pdfBtn').textContent.includes('PDF') && $('#saveMyTplTopBtn').textContent.includes('내 양식') && !iconOnly.includes('pdfBtn') && !iconOnly.includes('saveMyTplTopBtn'), iconOnly.join(','));
+  await clickEl($('#exportMenuBtn'), 300);
+  check('R5. [엑셀로 내보내기 ▾] → PDF·인쇄 메뉴(단추 아래, 창 안)', !$('#exportMenu').hidden && $('#exportMenu').getBoundingClientRect().right <= innerWidth && $('#exportMenu').getBoundingClientRect().top >= $('#exportSplit').getBoundingClientRect().bottom - 1);
   await shot('a14_topbar_1280');
+  document.dispatchEvent(new KeyboardEvent('keydown', { key: 'Escape', bubbles: true })); await sleep(150);
+  check('R5. Esc로 메뉴 닫힘', $('#exportMenu').hidden);
   await clickEl($$('#sheetTabsBar .sheet-tab')[0], 600);
   await shot('a13_posco_1280');
   await resizeTo(wasW, wasH);

diff --git a/renderer/02-catalog-editor.js b/renderer/02-catalog-editor.js
@@ -36,7 +36,7 @@ function renderCatalog() {
     const btn = h('button', { class: 'type-btn' + (state.selectedType === key ? ' selected' : '') });
     btn.append(label);
     if (cnt !== null) btn.appendChild(h('span', { class: 'cnt', text: String(cnt) }));
-    btn.addEventListener('click', () => { state.selectedType = key; renderCatalog(); });
+    btn.addEventListener('click', () => { state.selectedType = key; renderCatalog(); fitStartCards(); });
     el.typeTabs.appendChild(btn);
   }
   el.companyGrid.innerHTML = '';
@@ -64,8 +64,8 @@ function updateStripButtons() {
   const prev = document.getElementById('stripPrev');
   const next = document.getElementById('stripNext');
   if (!prev) return;
-  prev.hidden = s.scrollLeft <= 2;
-  next.hidden = s.scrollLeft + s.clientWidth >= s.scrollWidth - 2;
+  prev.hidden = s.scrollLeft <= 2 || s.classList.contains('as-grid');
+  next.hidden = s.scrollLeft + s.clientWidth >= s.scrollWidth - 2 || s.classList.contains('as-grid');
 }
 
 // 양식 카드: 미리보기(‹ › 또는 그림 왼쪽·오른쪽을 눌러 시트 넘겨 보기) + 이름. 그림을 눌러도 열리지 않고, 아래 이름 부분·두 번 누르기·Enter로 연다
@@ -222,6 +222,31 @@ async function renderWorkList() {
   }
   box.innerHTML = '';
   rows.forEach((r) => box.appendChild(r));
+  fitStartCards();
+}
+
+// [9.3 R5] 최근 작업이 위에 있고 아래가 남으면, 남는 높이만큼 양식 카드(미리보기)를 키운다(안내문으로 채우지 않음)
+function fitStartCards() {
+  const home = document.getElementById('homePage');
+  const main = home && home.closest('.start-main');
+  const strip = el.companyGrid;
+  if (!home || !main || !strip || !home.classList.contains('active')) return;
+  strip.classList.remove('as-grid');
+  if (home.classList.contains('recent-first')) {
+    const cards = strip.querySelectorAll('.company-card');
+    const card = cards[0];
+    if (card) {
+      const gap = 14;
+      const perRow = Math.max(1, Math.floor((strip.clientWidth + gap) / (card.offsetWidth + gap)));
+      const rows = Math.ceil(cards.length / perRow);
+      const cs = getComputedStyle(home);
+      const wrap = strip.closest('.tpl-strip-wrap');
+      const spare = main.clientHeight - home.offsetHeight + parseFloat(cs.paddingBottom) + (wrap ? parseFloat(getComputedStyle(wrap).marginBottom) : 0) - 16;
+      const extra = (rows - 1) * (card.offsetHeight + gap);
+      if (rows > 1 && extra <= spare) strip.classList.add('as-grid');
+    }
+  }
+  updateStripButtons();
 }
 
 // [9.3 R3] 최근 작업이 없을 때: 3단계 흐름 안내(실제로 누를 수 있는 단추는 1단계에만)

diff --git a/renderer/99-wiring.js b/renderer/99-wiring.js
@@ -247,6 +247,33 @@ el.siteNameInput.addEventListener('input', () => {
   if (state.editor) state.editor.siteName = el.siteNameInput.value;
 });
 el.exportBtn.addEventListener('click', () => openExportDialog('xlsx'));
+// [9.3 R5] 상단 바 펼침 메뉴: [저장 ▾](다른 이름으로·내 양식), [엑셀로 내보내기 ▾](PDF·인쇄)
+function closeDropMenus() {
+  for (const m of document.querySelectorAll('.drop-menu')) m.hidden = true;
+  for (const b of document.querySelectorAll('[aria-haspopup="menu"]')) b.setAttribute('aria-expanded', 'false');
+}
+function toggleDropMenu(btn, menuId, alignRight) {
+  const menu = document.getElementById(menuId);
+  const open = menu.hidden;
+  closeDropMenus();
+  if (!open) return;
+  menu.hidden = false;
+  btn.setAttribute('aria-expanded', 'true');
+  const r = (btn.closest('.split-btn') || btn).getBoundingClientRect();
+  const w = menu.offsetWidth;
+  menu.style.top = `${Math.round(r.bottom + 4)}px`;
+  menu.style.left = `${Math.round(alignRight ? Math.max(6, r.right - w) : Math.min(r.left, window.innerWidth - w - 6))}px`;
+  const first = menu.querySelector('button:not(:disabled)');
+  if (first) first.focus({ preventScroll: true });
+}
+document.getElementById('saveMenuBtn').addEventListener('click', (e) => { e.stopPropagation(); toggleDropMenu(e.currentTarget, 'saveMenu', false); });
+document.getElementById('exportMenuBtn').addEventListener('click', (e) => { e.stopPropagation(); toggleDropMenu(e.currentTarget, 'exportMenu', true); });
+document.getElementById('saveAsBtn').addEventListener('click', () => saveProject(true));
+for (const m of document.querySelectorAll('.drop-menu')) m.addEventListener('click', (e) => { if (e.target.closest('.drop-item')) closeDropMenus(); });
+document.addEventListener('mousedown', (e) => { if (!e.target.closest('.drop-menu') && !e.target.closest('[aria-haspopup="menu"]')) closeDropMenus(); });
+document.addEventListener('keydown', (e) => { if (e.key === 'Escape' && document.querySelector('.drop-menu:not([hidden])')) { e.stopPropagation(); closeDropMenus(); } }, true);
+window.addEventListener('resize', closeDropMenus);
+window.addEventListener('resize', () => { if (el.catalogView.classList.contains('active')) fitStartCards(); });
 
 el.dismissFontBannerBtn.addEventListener('click', (e) => {
   e.stopPropagation(); // 닫기만(띠를 누른 것으로 치지 않음)

diff --git a/qa/scenarios/11_inspector.js b/qa/scenarios/11_inspector.js
@@ -22,7 +22,7 @@ try {
 
   // 편집 화면 진한 파랑은 [엑셀로 내보내기] 하나
   const prim = () => $$('#editorView button.primary').filter((b) => b.offsetParent);
-  check('5. 편집 화면 primary 단추는 [엑셀로 내보내기] 하나(폴더 열기는 보통 단추)', prim().length === 1 && prim()[0].id === 'exportBtn' && !$('#selectFolderBtn').classList.contains('primary'), prim().map((b) => b.id).join());
+  check('5. 편집 화면 primary 단추는 [엑셀로 내보내기] 하나(폴더 열기는 보통 단추)', prim().every((b) => b.closest('#exportSplit')) && prim()[0].id === 'exportBtn' && !$('#selectFolderBtn').classList.contains('primary'), prim().map((b) => b.id).join());
   check('3. 사진 패널 빈 상태에 "자리 먼저 고르고 누르면 들어감" 안내', /사진 자리를 먼저 고르고/.test($('#photoGrid').textContent), $('#photoGrid').textContent.trim().slice(0, 80));
 
   // 시트 선택 상태: 내부 정보 없음, 메모 3개 이하
@@ -93,6 +93,7 @@ try {
   setInspectorCollapsed(true); await sleep(500);
   slotEl().dispatchEvent(new MouseEvent('click', { bubbles: true, detail: 1 })); await sleep(300);
   check('2. 패널 접힘: 사진 자리 고르면 [사진] 탭에 파란 점(ctx-on)', $('#ribbonTabs [data-tab="photo"]').classList.contains('ctx-on'));
+  check('R5. 사진 자리를 고르면 상황 탭 [사진]이 나타남', !$('#ribbonTabs [data-tab="photo"]').hidden);
   slotEl().dispatchEvent(new MouseEvent('click', { bubbles: true, detail: 2 })); await sleep(1200);
   check('2. 패널 접힘: 사진 자리 더블클릭 → 자르기 편집기', $('#cropModal').classList.contains('open'));
   await shot('i04_collapsed_crop');

diff --git a/renderer/12-ribbon.js b/renderer/12-ribbon.js
@@ -78,15 +78,22 @@ function updateRibbon() {
   const photo = sl && sl.photo;
   for (const id of ['rbCropBtn', 'rbRotateBtn', 'rbAnnoBtn', 'rbZoomBtn', 'rbRemoveBtn']) $id(id).disabled = !photo;
   $id('rbRevertBtn').disabled = !(photo && photo.isCropped);
-  $id('ribbonTabs').querySelector('[data-tab="photo"]').classList.toggle('ctx-on', !!area);
+  // [9.3 R5] [사진]은 상황 탭: 사진 자리(영역)를 골랐을 때만 나타남
+  const photoTab = $id('ribbonTabs').querySelector('[data-tab="photo"]');
+  photoTab.classList.toggle('ctx-on', !!area);
+  photoTab.hidden = !area;
+  if (!area && ribbonUi.tab === 'photo') setRibbonTab('home');
   // 서식
   const c = ribbonCell();
-  $id('ribbonTabs').querySelector('[data-tab="format"]').classList.toggle('ctx-on', !!c);
   const fmtIds = ['fmtBoldBtn', 'fmtWrapBtn', 'fmtShrinkBtn', 'fmtResetBtn'];
   if (!c) {
     for (const id of fmtIds) { $id(id).disabled = true; $id(id).classList.remove('on'); }
-    $id('fmtFontSel').disabled = true;
-    $id('fmtSizeSel').disabled = true;
+    for (const [id, ph] of [['fmtFontSel', '글꼴'], ['fmtSizeSel', '크기']]) {
+      const sl = $id(id);
+      sl.innerHTML = '';
+      sl.appendChild(h('option', { value: '', text: ph }));
+      sl.disabled = true;
+    }
   } else {
     const csheet = state.editor.sheets[c.sheetIdx];
     const cur = fontOverrideOf(csheet, c.key) || {};

diff --git a/qa/scenarios/12_start.js b/qa/scenarios/12_start.js
@@ -63,6 +63,10 @@ try {
   await goToStart(); await sleep(1200);
   check('5. 최근 작업 1건 → 최근 작업이 위, 새 사진첩 줄이 아래', $('#homePage').classList.contains('recent-first') && $('.work-head').getBoundingClientRect().top < $('.tpl-head').getBoundingClientRect().top && $$('#workList .work-row').length === 1);
   check('5. 최근 작업이 생기면 흐름 안내는 사라짐', !$('#flowGuide'));
+  // [9.3 R5] 최근 작업이 적어 아래가 남으면 양식 카드를 여러 줄로 다 보여 줌(빈 회색 대신 실제 양식)
+  const strip = $('#companyGrid'); const mainB = $('.start-main').getBoundingClientRect().bottom;
+  const cardsAll = $$('#companyGrid .company-card');
+  check('R5. 최근 작업 1건: 양식 카드가 여러 줄로 모두 보임(가로 넘김 없음, 화면 안)', strip.classList.contains('as-grid') && strip.scrollWidth <= strip.clientWidth + 1 && cardsAll.every((c) => c.getBoundingClientRect().bottom <= mainB + 1) && $('#stripNext').hidden, `${innerWidth}x${innerHeight} grid=${strip.classList.contains('as-grid')} cards=${cardsAll.length}`);
   check('5. 자동 저장 복원 안내 자리는 맨 위 그대로', order('#recoverSlot') === 0 && $('#homePage').firstElementChild.id === 'recoverSlot');
   await shot('t02_start_recent');
   // 시작 화면에서도 ?로 같은 도움말

diff --git a/qa/scenarios/10_release.js b/qa/scenarios/10_release.js
@@ -73,7 +73,7 @@ try {
 
   // 인쇄·PDF 전 Excel 확인 (하니스가 Excel 상태만 바꿔 줌 — 진짜 Excel은 움직이지 않음)
   const setExcel = async (st) => { const n = window.__qaExcelSet || 0; console.log('__QA_EXCEL__:' + JSON.stringify(st)); await waitFor(() => (window.__qaExcelSet || 0) > n, 3000); };
-  check('6. 도구 막대에 [인쇄] 단추, 창 안에 들어감', !!$('#printBtn') && $('#printBtn').getBoundingClientRect().right <= innerWidth && $('#exportBtn').getBoundingClientRect().right <= innerWidth, `${Math.round($('#exportBtn').getBoundingClientRect().right)} / ${innerWidth}`);
+  check('6. [인쇄]는 [엑셀로 내보내기 ▾] 메뉴 안(⌘P), 도구 막대가 창 안에 들어감', !!$('#exportMenu #printBtn') && $('#exportMenuBtn').getBoundingClientRect().right <= innerWidth && $('#exportBtn').getBoundingClientRect().right <= innerWidth, `${Math.round($('#exportMenuBtn').getBoundingClientRect().right)} / ${innerWidth}`);
   await setExcel({ installed: false, automation: 'unknown' });
   await clickEl($('#printBtn'), 500);
   const m1 = $('.dyn-modal');
